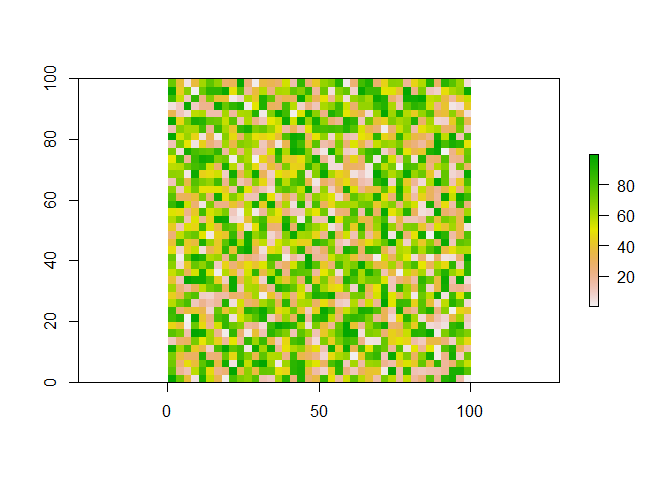
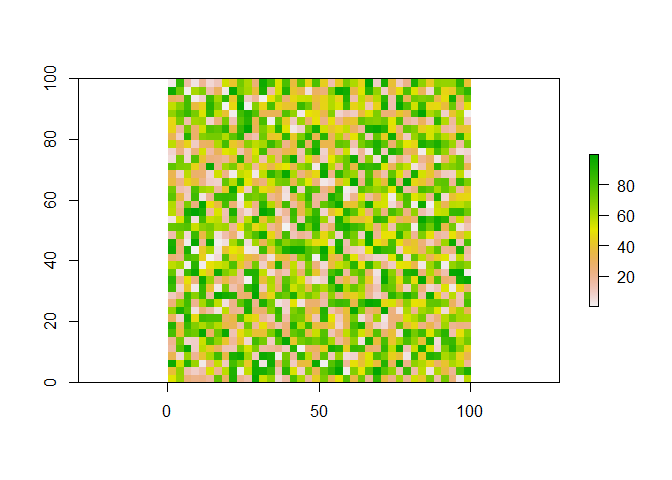
agregando cambios

Changed region(s): [[0.25, 0.1562, 0.7188, 0.8125]]

diff --git a/README.md b/README.md
@@ -2,17 +2,23 @@ Exploración de datos con R Package
 ================
 
 ``` r
-#Institucion: Programa de Ingenieria en Topografia de las Unidades Tecnológicas de Santander
-
-# autor: "Aponte Saravia Jhonathan"
+#Institucion: Unidades Tecnológicas de Santander
+# Programa: Ingenieria en Topografía
+# Autor: "Aponte Saravia Jhonathan"
 ```
 
-## Introducción
+## Descripcion del constexto
 
-En este proceso se intenta de presentar procesos de acercamiento de con
-el programa R Package,
-
-## Desarrollo del proceso
+A continuación, se presenta aplicaciones básicas de exploración de datos
+en lenguaje R, donde se comparten los códigos y las instrucciones para
+realizar operaciones elementales de cálculos aritméticos, procesos de
+importación de datos, creación de datos vectoriales tales como: la
+creación de puntos, líneas y polígonos y algunas aplicaciones básicas de
+cálculo de superficie, perímetro, estimación de coordenadas; así
+también, la creación de datos tipo raster. El propósito de la guía, está
+dirigido a interesados que tengan afinidad a los programas de
+ingeniería, cuyo interés es el uso de los datos espaciales, así mismo,
+es de circulación nacional sin enfoque diferencial.
 
 #### Operaciones basicas con R
 
@@ -923,76 +929,76 @@ m <- matrix(c(runif(1600, min=0, max=100)), ncol = 40, nrow = 40,byrow = TRUE )
 summary(m)
 ```
 
-    ##        V1               V2               V3                V4         
-    ##  Min.   : 3.946   Min.   : 1.864   Min.   : 0.1521   Min.   : 0.7157  
-    ##  1st Qu.:43.860   1st Qu.:24.211   1st Qu.:17.9398   1st Qu.:37.7190  
-    ##  Median :64.551   Median :44.759   Median :42.5018   Median :57.2575  
-    ##  Mean   :59.714   Mean   :44.828   Mean   :43.6542   Mean   :56.5861  
-    ##  3rd Qu.:77.376   3rd Qu.:68.528   3rd Qu.:68.2261   3rd Qu.:79.5815  
-    ##  Max.   :99.002   Max.   :99.369   Max.   :99.4959   Max.   :99.7772  
-    ##        V5               V6              V7               V8         
-    ##  Min.   : 3.406   Min.   : 2.52   Min.   : 1.245   Min.   : 0.8224  
-    ##  1st Qu.:39.658   1st Qu.:24.23   1st Qu.:24.900   1st Qu.:24.7563  
-    ##  Median :64.225   Median :53.25   Median :44.809   Median :57.5020  
-    ##  Mean   :59.323   Mean   :48.16   Mean   :49.940   Mean   :53.1209  
-    ##  3rd Qu.:84.938   3rd Qu.:69.22   3rd Qu.:75.181   3rd Qu.:77.4658  
-    ##  Max.   :96.382   Max.   :92.58   Max.   :98.434   Max.   :99.2197  
-    ##        V9              V10              V11              V12         
-    ##  Min.   : 1.547   Min.   : 1.323   Min.   : 2.242   Min.   : 0.9925  
-    ##  1st Qu.:27.234   1st Qu.:21.885   1st Qu.:25.994   1st Qu.:31.9078  
-    ##  Median :49.779   Median :40.177   Median :59.070   Median :48.4478  
-    ##  Mean   :51.770   Mean   :46.063   Mean   :51.491   Mean   :50.1825  
-    ##  3rd Qu.:77.884   3rd Qu.:68.985   3rd Qu.:65.420   3rd Qu.:70.0409  
-    ##  Max.   :99.565   Max.   :98.733   Max.   :97.701   Max.   :96.1898  
-    ##       V13              V14              V15              V16        
-    ##  Min.   : 1.207   Min.   : 6.117   Min.   : 2.338   Min.   : 2.146  
-    ##  1st Qu.:12.597   1st Qu.:27.402   1st Qu.:27.529   1st Qu.:38.609  
-    ##  Median :46.134   Median :49.551   Median :48.802   Median :59.340  
-    ##  Mean   :46.626   Mean   :49.134   Mean   :48.436   Mean   :56.591  
-    ##  3rd Qu.:75.525   3rd Qu.:71.890   3rd Qu.:63.882   3rd Qu.:77.809  
-    ##  Max.   :99.676   Max.   :98.798   Max.   :98.278   Max.   :97.151  
-    ##       V17               V18             V19              V20        
-    ##  Min.   : 0.6565   Min.   : 2.72   Min.   : 5.306   Min.   : 2.824  
-    ##  1st Qu.:27.8336   1st Qu.:47.39   1st Qu.:27.153   1st Qu.:17.980  
-    ##  Median :56.2466   Median :67.27   Median :55.356   Median :46.909  
-    ##  Mean   :53.8334   Mean   :64.11   Mean   :51.021   Mean   :47.871  
-    ##  3rd Qu.:78.8057   3rd Qu.:89.38   3rd Qu.:71.158   3rd Qu.:71.998  
-    ##  Max.   :97.7444   Max.   :97.60   Max.   :99.496   Max.   :96.122  
-    ##       V21              V22             V23              V24        
-    ##  Min.   : 2.939   Min.   : 3.94   Min.   : 5.548   Min.   : 1.916  
-    ##  1st Qu.:26.548   1st Qu.:20.60   1st Qu.:24.062   1st Qu.:26.513  
-    ##  Median :53.022   Median :48.46   Median :48.809   Median :55.241  
-    ##  Mean   :50.396   Mean   :49.03   Mean   :48.486   Mean   :53.471  
-    ##  3rd Qu.:70.113   3rd Qu.:69.93   3rd Qu.:71.361   3rd Qu.:77.303  
-    ##  Max.   :97.323   Max.   :97.89   Max.   :90.256   Max.   :99.125  
-    ##       V25               V26              V27              V28        
-    ##  Min.   : 0.6237   Min.   : 4.935   Min.   : 2.321   Min.   : 1.456  
-    ##  1st Qu.:27.1414   1st Qu.:22.757   1st Qu.:33.082   1st Qu.:37.955  
-    ##  Median :52.4010   Median :46.239   Median :57.416   Median :63.735  
-    ##  Mean   :49.9645   Mean   :49.175   Mean   :52.058   Mean   :57.322  
-    ##  3rd Qu.:76.1177   3rd Qu.:71.841   3rd Qu.:72.530   3rd Qu.:82.334  
-    ##  Max.   :97.3128   Max.   :98.543   Max.   :91.823   Max.   :99.785  
-    ##       V29              V30              V31               V32        
-    ##  Min.   : 1.327   Min.   : 3.249   Min.   : 0.5901   Min.   : 3.924  
-    ##  1st Qu.:38.277   1st Qu.:19.928   1st Qu.:28.9075   1st Qu.:45.063  
-    ##  Median :62.768   Median :47.201   Median :54.7319   Median :58.747  
-    ##  Mean   :60.108   Mean   :43.642   Mean   :52.3539   Mean   :57.994  
-    ##  3rd Qu.:90.349   3rd Qu.:61.939   3rd Qu.:79.8937   3rd Qu.:70.515  
-    ##  Max.   :99.548   Max.   :99.162   Max.   :94.5243   Max.   :99.194  
-    ##       V33              V34              V35               V36       
-    ##  Min.   : 2.344   Min.   : 4.519   Min.   : 0.7051   Min.   : 1.86  
-    ##  1st Qu.:17.205   1st Qu.:26.518   1st Qu.:22.3246   1st Qu.:17.09  
-    ##  Median :37.956   Median :58.467   Median :40.4385   Median :31.71  
-    ##  Mean   :41.295   Mean   :51.682   Mean   :46.6953   Mean   :42.80  
-    ##  3rd Qu.:62.552   3rd Qu.:75.701   3rd Qu.:72.3391   3rd Qu.:62.97  
-    ##  Max.   :95.308   Max.   :98.944   Max.   :98.1116   Max.   :99.63  
-    ##       V37               V38               V39              V40         
-    ##  Min.   : 0.2805   Min.   : 0.4802   Min.   : 5.661   Min.   : 0.1935  
-    ##  1st Qu.:27.6310   1st Qu.:15.3645   1st Qu.:29.164   1st Qu.:14.7799  
-    ##  Median :48.1292   Median :45.4923   Median :49.363   Median :57.5016  
-    ##  Mean   :51.5023   Mean   :47.0599   Mean   :50.712   Mean   :51.7437  
-    ##  3rd Qu.:78.4720   3rd Qu.:84.1203   3rd Qu.:71.982   3rd Qu.:79.5460  
-    ##  Max.   :97.8367   Max.   :98.6197   Max.   :99.992   Max.   :99.5285
+    ##        V1               V2              V3               V4         
+    ##  Min.   : 2.186   Min.   : 5.72   Min.   : 1.011   Min.   : 0.3875  
+    ##  1st Qu.:29.057   1st Qu.:21.05   1st Qu.:14.777   1st Qu.:16.9186  
+    ##  Median :54.117   Median :35.22   Median :69.537   Median :37.7047  
+    ##  Mean   :50.691   Mean   :42.97   Mean   :54.501   Mean   :43.7626  
+    ##  3rd Qu.:75.082   3rd Qu.:68.17   3rd Qu.:84.132   3rd Qu.:71.1053  
+    ##  Max.   :96.436   Max.   :92.91   Max.   :98.169   Max.   :99.4691  
+    ##        V5              V6                V7                V8         
+    ##  Min.   : 1.81   Min.   : 0.2931   Min.   : 0.8606   Min.   : 0.2985  
+    ##  1st Qu.:26.20   1st Qu.:17.4227   1st Qu.:20.7662   1st Qu.:21.0512  
+    ##  Median :52.54   Median :48.9329   Median :54.4479   Median :46.6547  
+    ##  Mean   :49.35   Mean   :47.2907   Mean   :45.1298   Mean   :47.3105  
+    ##  3rd Qu.:67.48   3rd Qu.:71.2263   3rd Qu.:66.7072   3rd Qu.:71.0347  
+    ##  Max.   :98.79   Max.   :97.8350   Max.   :99.5335   Max.   :97.2964  
+    ##        V9               V10              V11               V12        
+    ##  Min.   : 0.9454   Min.   : 1.901   Min.   : 0.5608   Min.   : 2.734  
+    ##  1st Qu.:21.7724   1st Qu.:18.124   1st Qu.:23.8309   1st Qu.:24.270  
+    ##  Median :42.1632   Median :47.713   Median :54.1335   Median :49.538  
+    ##  Mean   :49.1354   Mean   :49.384   Mean   :48.6877   Mean   :51.827  
+    ##  3rd Qu.:76.9712   3rd Qu.:78.261   3rd Qu.:68.2168   3rd Qu.:79.087  
+    ##  Max.   :98.3447   Max.   :99.275   Max.   :99.6822   Max.   :99.353  
+    ##       V13               V14              V15             V16        
+    ##  Min.   : 0.5907   Min.   : 1.486   Min.   : 1.89   Min.   : 0.269  
+    ##  1st Qu.:30.7581   1st Qu.:25.961   1st Qu.:23.92   1st Qu.:17.630  
+    ##  Median :52.0061   Median :51.912   Median :36.37   Median :46.763  
+    ##  Mean   :53.1926   Mean   :49.216   Mean   :45.13   Mean   :49.074  
+    ##  3rd Qu.:81.7657   3rd Qu.:67.547   3rd Qu.:71.42   3rd Qu.:79.214  
+    ##  Max.   :98.9768   Max.   :94.875   Max.   :91.97   Max.   :97.896  
+    ##       V17              V18               V19              V20         
+    ##  Min.   : 2.431   Min.   : 0.4698   Min.   : 4.469   Min.   : 0.8707  
+    ##  1st Qu.:33.706   1st Qu.:18.6767   1st Qu.:35.357   1st Qu.:29.0866  
+    ##  Median :51.379   Median :59.5369   Median :59.329   Median :42.1926  
+    ##  Mean   :52.468   Mean   :48.6055   Mean   :55.248   Mean   :48.6128  
+    ##  3rd Qu.:75.033   3rd Qu.:71.2592   3rd Qu.:75.450   3rd Qu.:71.7296  
+    ##  Max.   :97.882   Max.   :96.5148   Max.   :89.861   Max.   :96.6411  
+    ##       V21               V22              V23              V24        
+    ##  Min.   : 0.5442   Min.   : 5.934   Min.   : 7.679   Min.   : 1.487  
+    ##  1st Qu.:16.9527   1st Qu.:32.043   1st Qu.:23.489   1st Qu.:30.616  
+    ##  Median :44.7966   Median :49.562   Median :54.175   Median :55.517  
+    ##  Mean   :46.4572   Mean   :49.114   Mean   :56.533   Mean   :50.231  
+    ##  3rd Qu.:75.7387   3rd Qu.:68.435   3rd Qu.:89.312   3rd Qu.:73.779  
+    ##  Max.   :98.5334   Max.   :94.023   Max.   :99.120   Max.   :95.321  
+    ##       V25              V26              V27              V28        
+    ##  Min.   : 4.458   Min.   : 4.273   Min.   : 3.188   Min.   : 3.391  
+    ##  1st Qu.:33.647   1st Qu.:33.094   1st Qu.:25.745   1st Qu.:25.052  
+    ##  Median :49.193   Median :53.525   Median :51.837   Median :57.841  
+    ##  Mean   :51.080   Mean   :50.587   Mean   :54.190   Mean   :52.208  
+    ##  3rd Qu.:72.196   3rd Qu.:72.210   3rd Qu.:83.743   3rd Qu.:78.403  
+    ##  Max.   :98.775   Max.   :94.311   Max.   :99.950   Max.   :99.845  
+    ##       V29              V30              V31              V32        
+    ##  Min.   : 3.223   Min.   : 1.911   Min.   : 4.565   Min.   : 3.585  
+    ##  1st Qu.:26.678   1st Qu.:24.626   1st Qu.:25.598   1st Qu.:21.206  
+    ##  Median :55.705   Median :45.847   Median :50.350   Median :47.464  
+    ##  Mean   :56.563   Mean   :46.303   Mean   :51.766   Mean   :48.174  
+    ##  3rd Qu.:85.475   3rd Qu.:68.264   3rd Qu.:73.436   3rd Qu.:79.130  
+    ##  Max.   :99.313   Max.   :96.124   Max.   :99.199   Max.   :98.656  
+    ##       V33              V34              V35              V36        
+    ##  Min.   : 1.957   Min.   : 1.516   Min.   : 1.004   Min.   : 3.471  
+    ##  1st Qu.:34.362   1st Qu.:27.193   1st Qu.:29.430   1st Qu.:27.383  
+    ##  Median :53.010   Median :55.433   Median :50.793   Median :58.810  
+    ##  Mean   :51.126   Mean   :53.446   Mean   :47.748   Mean   :54.664  
+    ##  3rd Qu.:68.134   3rd Qu.:79.470   3rd Qu.:68.665   3rd Qu.:77.437  
+    ##  Max.   :94.148   Max.   :99.825   Max.   :96.833   Max.   :95.349  
+    ##       V37              V38              V39              V40         
+    ##  Min.   : 1.292   Min.   : 2.572   Min.   : 2.706   Min.   : 0.4807  
+    ##  1st Qu.:25.458   1st Qu.:21.938   1st Qu.:29.819   1st Qu.:20.5483  
+    ##  Median :51.711   Median :45.930   Median :57.068   Median :46.1605  
+    ##  Mean   :46.501   Mean   :47.926   Mean   :52.186   Mean   :45.5851  
+    ##  3rd Qu.:64.937   3rd Qu.:67.741   3rd Qu.:73.225   3rd Qu.:69.6961  
+    ##  Max.   :89.480   Max.   :98.638   Max.   :99.917   Max.   :98.4450
 
 ``` r
 r<- raster(m)
